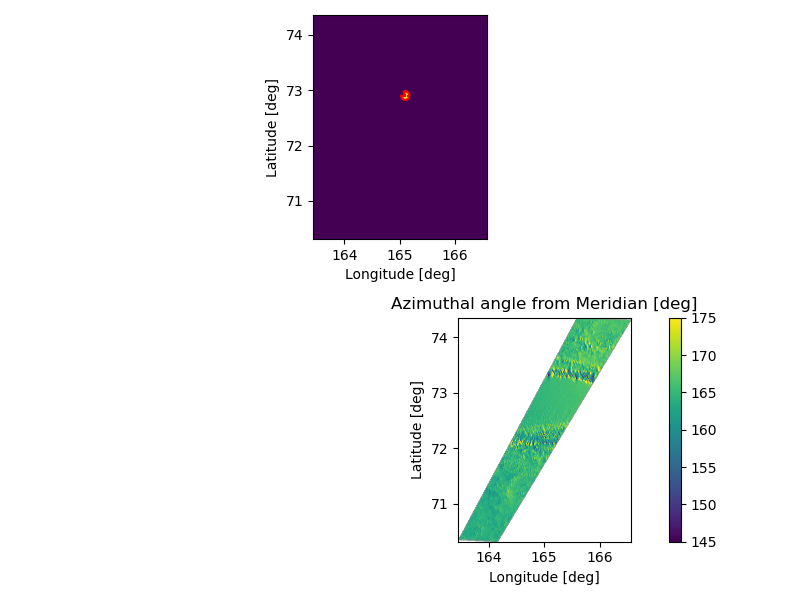
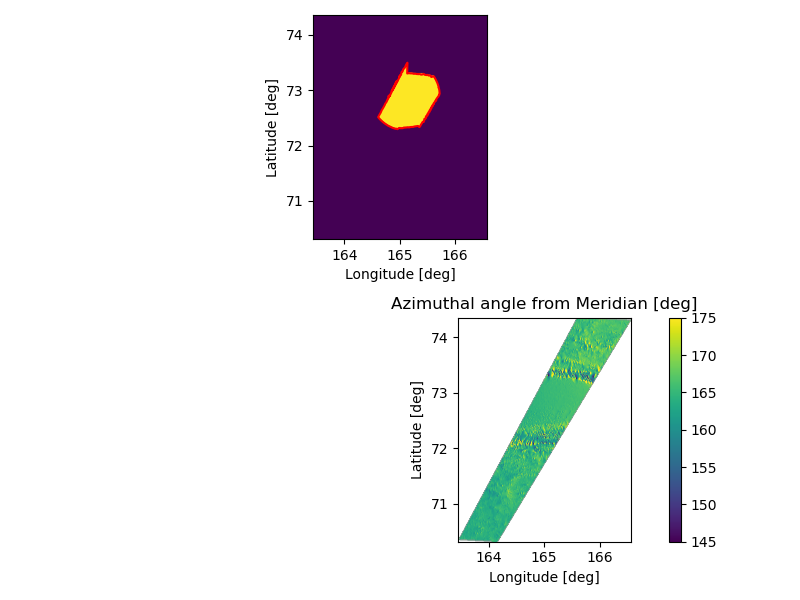
SUCCESSFUL KOROLEV SUBSURFACE

Changed region(s): [[0.4688, 0.09, 0.5625, 0.24]]

diff --git a/examples/KOROLEV/code/TiffToFacets.py b/examples/KOROLEV/code/TiffToFacets.py
@@ -111,8 +111,7 @@ data_circle = np.copy(data_Rs)
 data_circle[:100, :] = np.inf
 mask = np.zeros_like(data_Rs)
 # iterate over a circle identifying the lowest elevation point at every theta
-#len_indicies = np.arange(800)
-len_indicies = np.arange(100)
+len_indicies = np.arange(800)
 minlats, minlons = [], []
 for theta in np.linspace(-1*np.pi, np.pi, 300):
     ix = (np.cos(theta) * len_indicies).astype(int)
@@ -150,7 +149,7 @@ for i in range(mask.shape[0]):
 mask = mask.astype(bool)
 
 # find the radius of mars to the middle of the crater to create a subsurface mars radius "depth"
-crater_depth = 2000
+crater_depth = 1800
 subsrf_rad = data_Rs[kcenI_lat, kcenI_lon] - crater_depth
 
 # plot vector normals in spherical
@@ -283,7 +282,7 @@ for i_lat in range(tpar['rows']):
     sbzs = np.append(sbzs, subsrf_zs)
 
     # generate subsurface facet normals
-    subsrf_nhat = -1*ku.sharad_normal(subsrf_xs, subsrf_ys, subsrf_zs)
+    subsrf_nhat = ku.sharad_normal(subsrf_xs, subsrf_ys, subsrf_zs)
 
     sbnxs = np.append(sbnxs, subsrf_nhat[:, 0])
     sbnys = np.append(sbnys, subsrf_nhat[:, 1])
@@ -298,7 +297,7 @@ frs, fxs, fys, fzs, fnxs, fnys, fnzs, fuxs, fuys, fuzs, fvxs, fvys, fvzs = [
 
 
 sbxs, sbys, sbzs, sbnxs, sbnys, sbnzs = [
-    arr.flatten()[:] for arr in (sbxs, sbys, sbzs, sbnxs, sbnys, sbnzs)
+    arr.flatten()[::50] for arr in (sbxs, sbys, sbzs, sbnxs, sbnys, sbnzs)
 ]
 
 # export subsurface as obj file
@@ -308,8 +307,6 @@ ku.target_norms_to_obj("data/Subsurface", "KOR_T",
 ku.target_norms_to_file("data/Subsurface", "KOR_T", 
                         sbxs, sbys, sbzs,
                         sbnxs, sbnys, sbnzs)
-
-sys.exit()
 
 
 fig, ax = plt.subplots(2, 2, figsize=(14, 8))

diff --git a/examples/KOROLEV/code/plots.py b/examples/KOROLEV/code/plots.py
@@ -51,7 +51,7 @@ trc_en = 1200
 
 # what slantrange do we want to interpolate?
 rea_rng_st = 314e3
-rea_rng_en = 318e3
+rea_rng_en = 319e3
 
 foc_intrp = oh.interpolate_rdrgrm(geometry, rx_win, foc_db,
                                   sim_st=sim_st, sim_en=sim_en,
@@ -72,8 +72,8 @@ plotpar = {
     'ymax': ymax,
     'rea_min': np.min(NoOffset),
     'rea_max': 0.001,
-    'syn_min': 18,
-    'syn_max': 23,
+    'syn_min': 0,
+    'syn_max': 8,
 }
 
 # plot
@@ -82,4 +82,7 @@ rp.plot_SHARAD_comparison(NoOffset, foc_intrp, geometry, aeroid, mola, plotpar)
 
 # generate final plot
 geometry = ku.load_sharad_orbit_PKL(DIRECTORY, OBS)
-rp.plot_unfoc_foc(rdr_db, foc_db, rx_win, OBS, geometry=geometry, rdrmin=30, rdrmax=40, focmin=plotpar['syn_min'], focmax=plotpar['syn_max'])
+rp.plot_unfoc_foc(rdr_db, foc_db, rx_win, OBS, geometry=geometry, 
+                    rdrmin=-15, rdrmax=5, 
+                    focmin=plotpar['syn_min'], focmax=plotpar['syn_max'],
+                    ymax=319)

diff --git a/examples/KOROLEV/code/output.py b/examples/KOROLEV/code/output.py
@@ -44,6 +44,6 @@ sat_x, sat_y, sat_z = uc.km_to_m(sat_x, sat_y, sat_z)
 params['spacing'] = uc.estimate_spacing(sat_x, sat_y, sat_z)
 params['altitude'] = 1e3 * np.mean(geometry['SRAD']-geometry['MRAD'])
 
-focused = sf.focus_rdrgrm(rdrgrm, params, st=150, en=650)
+focused = sf.focus_rdrgrm(rdrgrm, params, st=150, en=750)
 
 np.save("output/focused.npy", focused)
